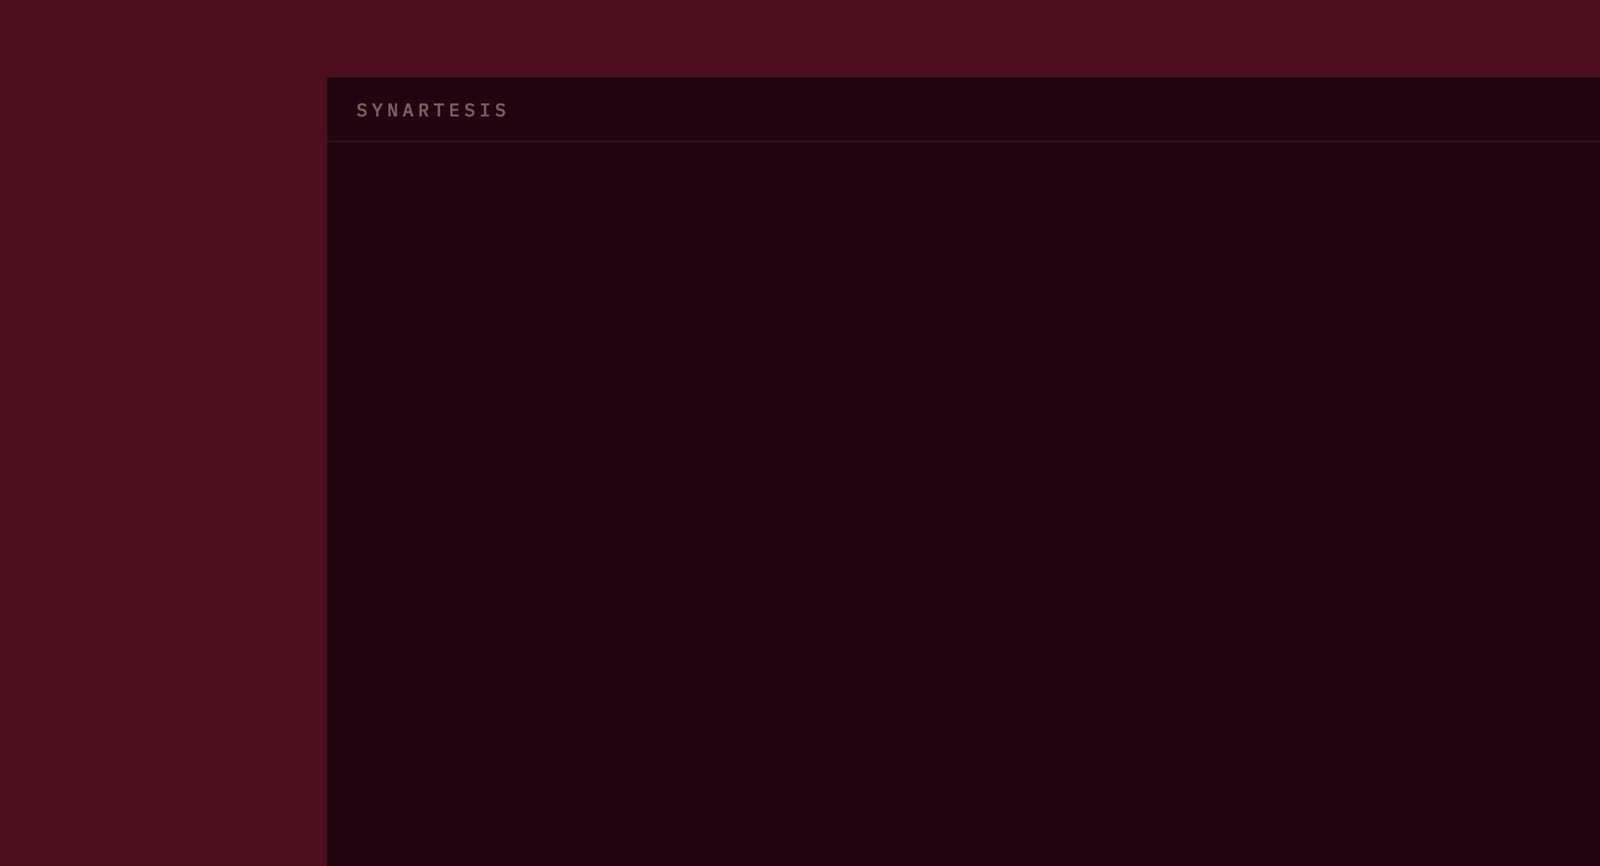
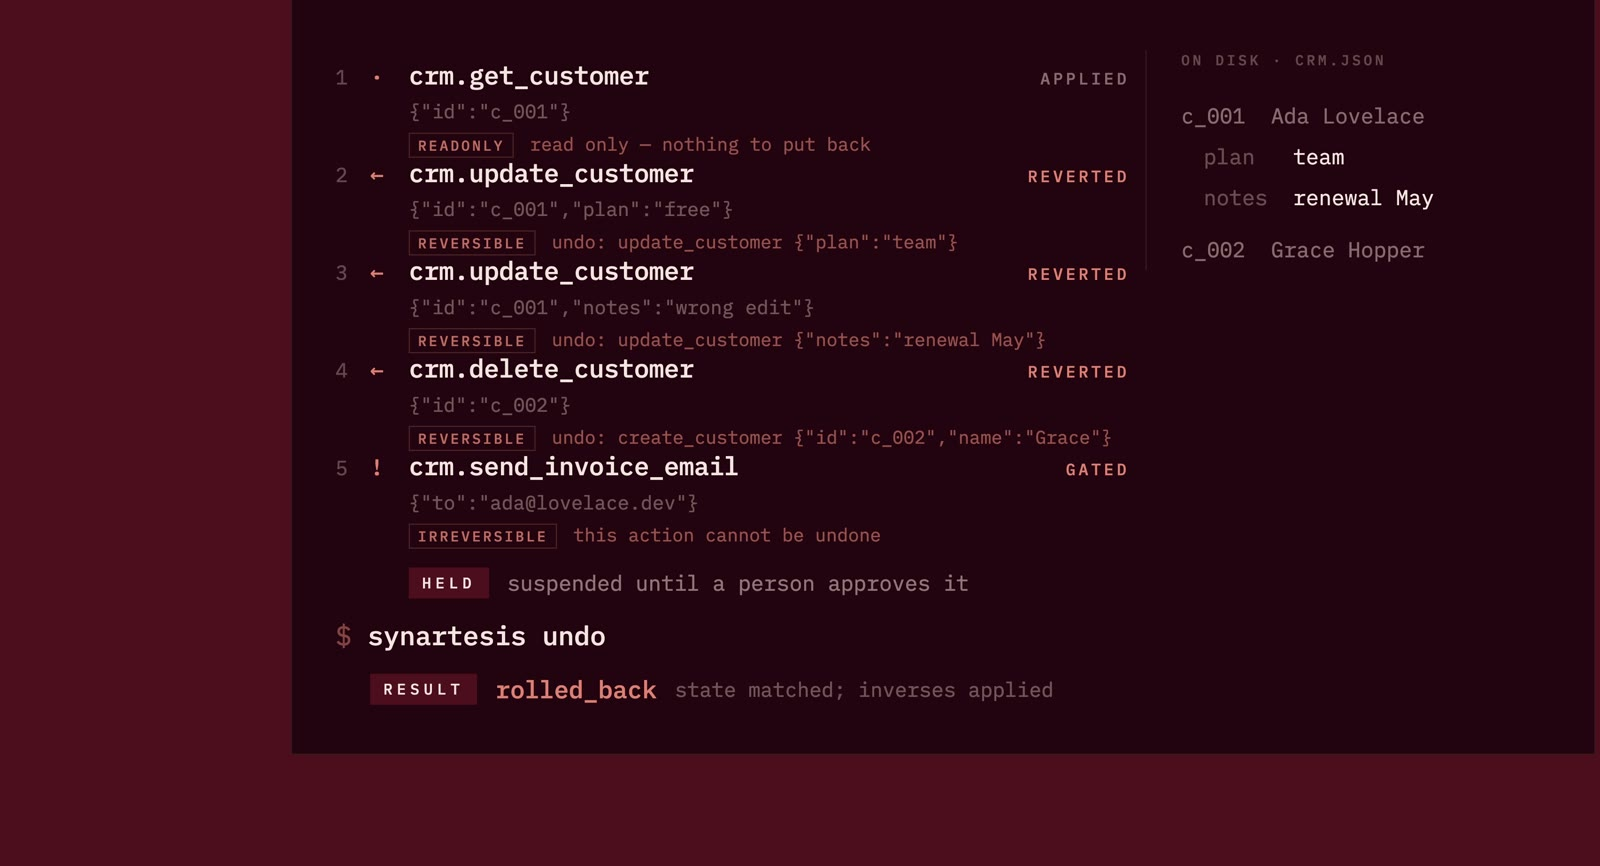
style(design): drop the video caption, and a poster worth looking at
The caption goes. The aria-label still describes what the recording shows, so
nothing is lost for anyone who cannot play it.

The poster was grabbed at 0.4 seconds, before anything animates in, so a
visitor whose browser blocks autoplay -- or anyone with reduced motion on, who
by design never gets past the poster -- was looking at a near-empty dark box.
It is now the frame at 26 seconds, which carries the whole argument as a
still: three calls reverted, send_invoice_email held because it cannot be
undone, the CRM back to what it was, and rolled_back with state matched.

diff --git a/demo/landing.html b/demo/landing.html
@@ -449,15 +449,6 @@
     border: 1px solid var(--panel-rule);
   }
 
-  .showreel-frame figcaption {
-    margin-top: 0.7rem;
-    font-family: var(--mono);
-    font-size: 0.7rem;
-    letter-spacing: 0.1em;
-    text-transform: uppercase;
-    color: var(--ink-faint);
-  }
-
   /* --- terminal ------------------------------------------------------ */
 
   .terminal {
@@ -986,9 +977,6 @@
         preload="metadata"
         aria-label="A recorded session: an agent makes twenty calls through Synartesis, undo reverses the reversible ones against the CRM on disk, and a send_invoice_email call is held for approval because it cannot be undone."
       ></video>
-      <figcaption>
-        Recorded against the toy CRM in this repo. No audio.
-      </figcaption>
     </figure>
   </section>
 
